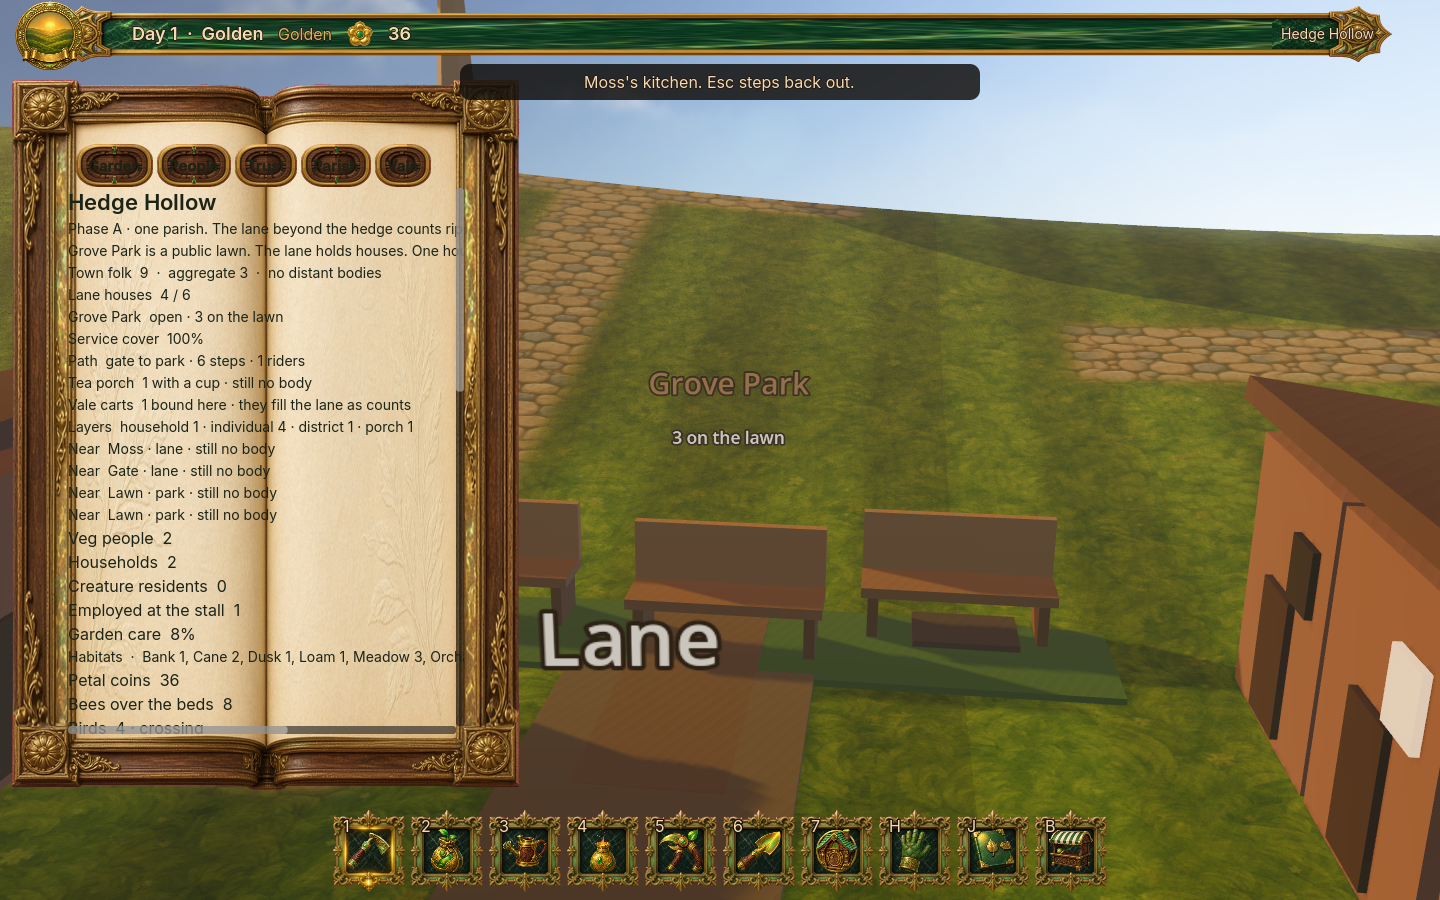
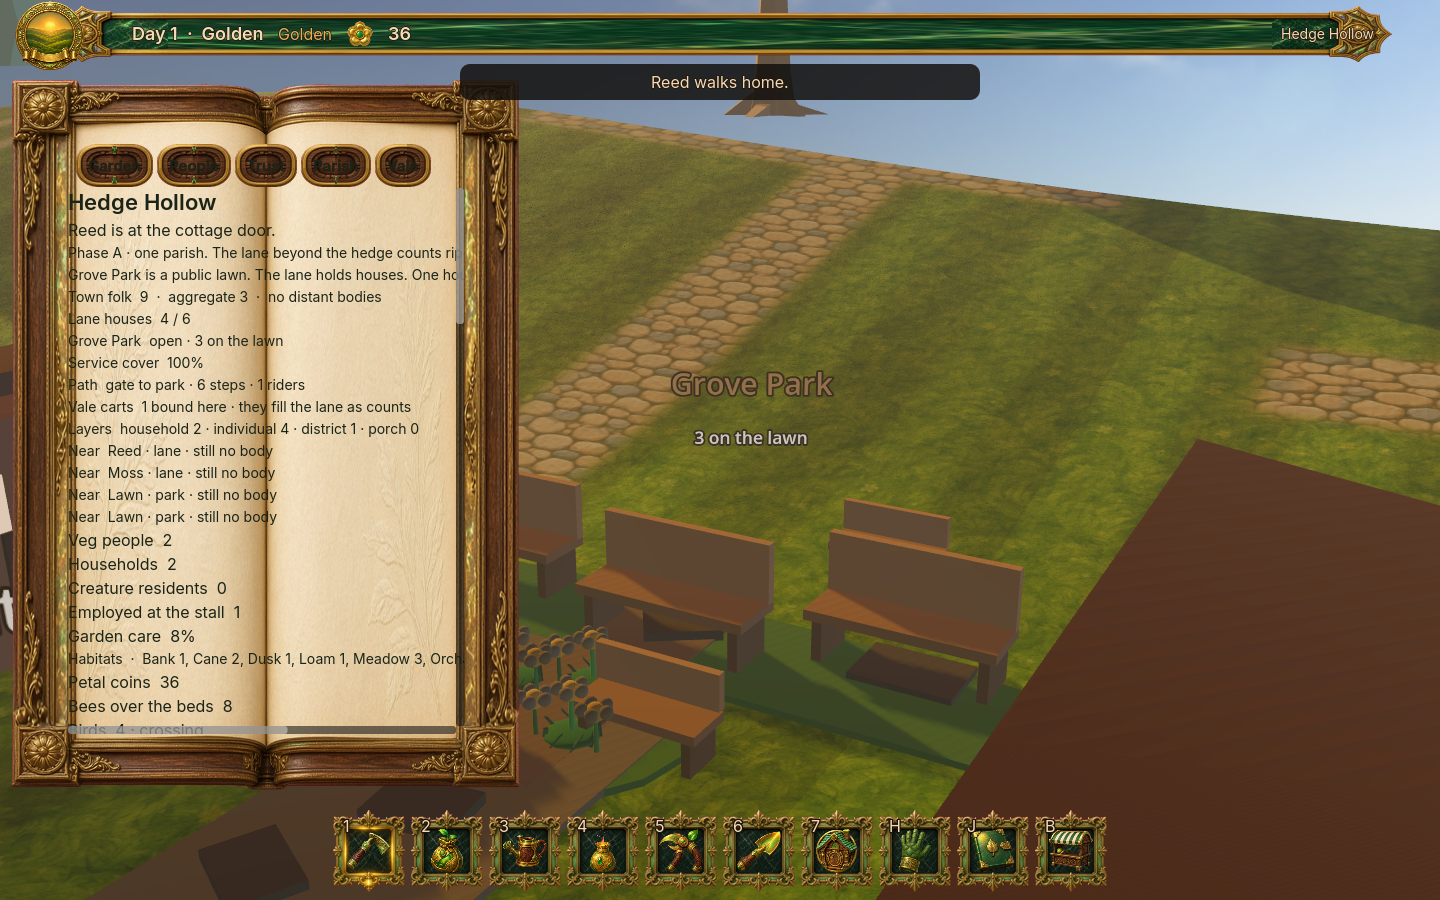
Name the cottage household on the place page.
The parish book says whether they are in the kitchen, on the path, on the lawn, or at the door. The town shot quits if that line loses the lawn or the door.

diff --git a/docs/CURRENT_STATE.md b/docs/CURRENT_STATE.md
@@ -24,7 +24,7 @@ Pass 2 from `petal/08-integration` is in this tree: inspect snack, pouch feed, h
 Approved jelly cut-outs (`assets/art/images/PETAL-08-101/`) are the resting card. Hunger, a grab, a poke, or a throw shows a shaded gel icon: one body, two black vertical eyes, a small highlight. The eyes stay unshaded so the sun does not grey them out. The icon tips toward the camera.
 Sign-off CAM_06 still stages its own `SignoffJelly` card.
 Grove Park, once Nessa files it, is a lawn with benches and one worn walk from the lawn to the hedge gate. Lumen and Bram walk through that gate to the grass and stay there. `grove_park.active` stays false.
-When the road rumour is filed, six cottages stand on South Lane between the gate and the lawn. Occupied houses light a window. If the camera is near the gate, the first household (a tomato folk, surname from the lane record) stands at that door. Enter, while the camera is near that cottage, steps into the kitchen. A cup on the table holds hedge tea when the kettle has a pot or a crate of it. T drinks one serving and the cup empties when that was the last. G, once Grove Park is filed, walks that household from the cottage door, through the gate, onto the lawn. G again walks them home through the gate. The lawn spot survives save and load. The same name is used in the kitchen and on the path. Esc steps back out. Farther houses stay counts. `grove_park.active` stays false.
+When the road rumour is filed, six cottages stand on South Lane between the gate and the lawn. Occupied houses light a window. If the camera is near the gate, the first household (a tomato folk, surname from the lane record) stands at that door. Enter, while the camera is near that cottage, steps into the kitchen. A cup on the table holds hedge tea when the kettle has a pot or a crate of it. T drinks one serving and the cup empties when that was the last. G, once Grove Park is filed, walks that household from the cottage door, through the gate, onto the lawn. G again walks them home through the gate. The lawn spot survives save and load. The same name is used in the kitchen, on the path, and on the place page. Esc steps back out. The place page says where they are: kitchen, walking, lawn, or cottage door. Farther houses stay counts. `grove_park.active` stays false.
 
 ## ACTIVE AGENTS
 
@@ -47,7 +47,7 @@ Executive on this branch. No other agent is writing this tree in this run.
 2026-09-29, Godot 4.8-dev6, llvmpipe, `DISPLAY=:1`.
 
 - `./tools/petal_qa.sh` → `PETAL_QA_SCRIPTS_OK` on this tip.
-- `PETAL_TOWN_SHOT=1` → `PETAL_TOWN_SHOT_OK`. The shot quits if the near cottage has no body, if Enter does not open the kitchen, if the cup does not match the kettle, if the window or the cup leaves the frame, if T does not spend one tea, if the walk misses the gate or the lawn, if the walk home misses the gate or the door, if reload sends them home early, or if Esc leaves the room open.
+- `PETAL_TOWN_SHOT=1` → `PETAL_TOWN_SHOT_OK`. The shot quits if the near cottage has no body, if Enter does not open the kitchen, if the cup does not match the kettle, if the window or the cup leaves the frame, if T does not spend one tea, if the walk misses the gate or the lawn, if the walk home misses the gate or the door, if the place page loses the lawn or the door, if reload sends them home early, or if Esc leaves the room open.
 - `PETAL_KETTLE_SHOT=1` → `PETAL_KETTLE_SHOT_OK`. The brew plate quits if the kettle leaves the frame.
 - `PETAL_JELLY_PLAY=1` → `JELLY_PLAY_OK`. Hungry plate shows the gel sphere and both black eyes.
 - `PETAL_RESIDENT_SHOT=1` → `PETAL_RESIDENT_SHOT_OK`. Bram, Lumen, and Bellhelp still read on the lawn.
@@ -79,6 +79,8 @@ Executive on this branch. No other agent is writing this tree in this run.
 
 `docs/screenshots/cottage_home.png` (1440×900). G again brought them back to the cottage door. The line reads “Reed walks home.”
 
+`docs/screenshots/town_parish.png` (1440×900). The place page opens with “Reed is at the cottage door.” The sim lines under it still say the lane records have no body.
+
 ## KNOWN REGRESSIONS
 
 - `main` does not boot the campaign garden.
@@ -94,7 +96,7 @@ One playable original-IP garden a person can tend, feed, and throw, reading as a
 1. Keep the resting cut-out for a fed idle jelly. The gel icon is hunger and a grab.
 2. When this suite stays green, open a PR from this garden onto `main`. Do not push `main` from the agent.
 3. Leave `grove_park.active` false until Nessa's existing filing. Do not add another east-chain stone.
-4. G walks the cottage household to the lawn and home again through the gate. The other five cottages stay closed.
+4. The place page names where the cottage household is. The other five cottages stay closed. The sim’s “still no body” lines are the count records, not this embodied household.
 5. Cherry-pick neon status icons only if they sit on the icon and leave the eyes visible.
 
 ## DO NOT REBUILD

diff --git a/docs/CAMPAIGN_BOARD.md b/docs/CAMPAIGN_BOARD.md
@@ -9,7 +9,7 @@ Playable Hedge Hollow on `petal/09-art-rescue`, continued on `cursor/playable-je
 - Tend the four beds. Feed a jelly from a ripe plant or the pouch.
 - Grab, nuzzle, throw. A fed idle jelly shows the approved cut-out. Hunger or a grab shows a shaded gel icon with two black eyes.
 - Stall, jam, tea, journal. Vale map on M. Town page on C.
-- Grove Park opens after the road rumour and Nessa's filing. Lumen and Bram walk through the hedge gate and stay on the grass. South Lane puts six cottages on that path when the rumour is filed. A near camera stands one tomato household at the first door. Enter steps into that kitchen. T drinks one kettle tea. G walks that household through the gate to the lawn, and G again walks them home. Esc steps back out. Catalog stays `active: false`.
+- Grove Park opens after the road rumour and Nessa's filing. Lumen and Bram walk through the hedge gate and stay on the grass. South Lane puts six cottages on that path when the rumour is filed. A near camera stands one tomato household at the first door. Enter steps into that kitchen. T drinks one kettle tea. G walks that household through the gate to the lawn, and G again walks them home. The place page names where they are. Esc steps back out. Catalog stays `active: false`.
 
 ## NEXT
 
